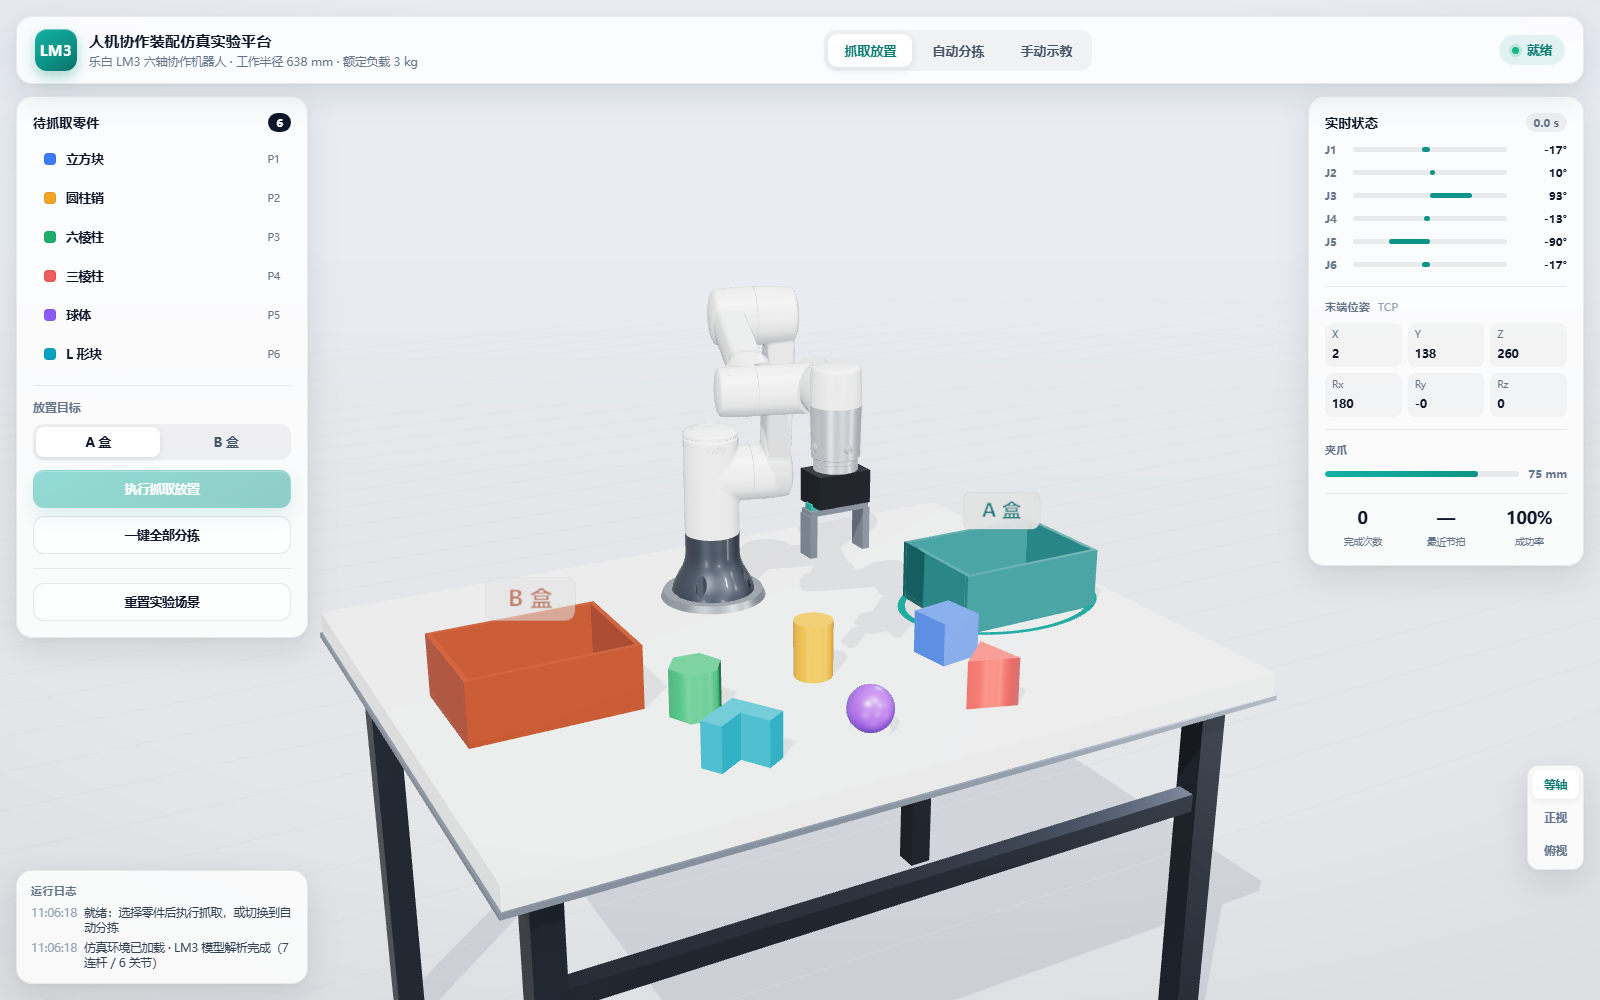
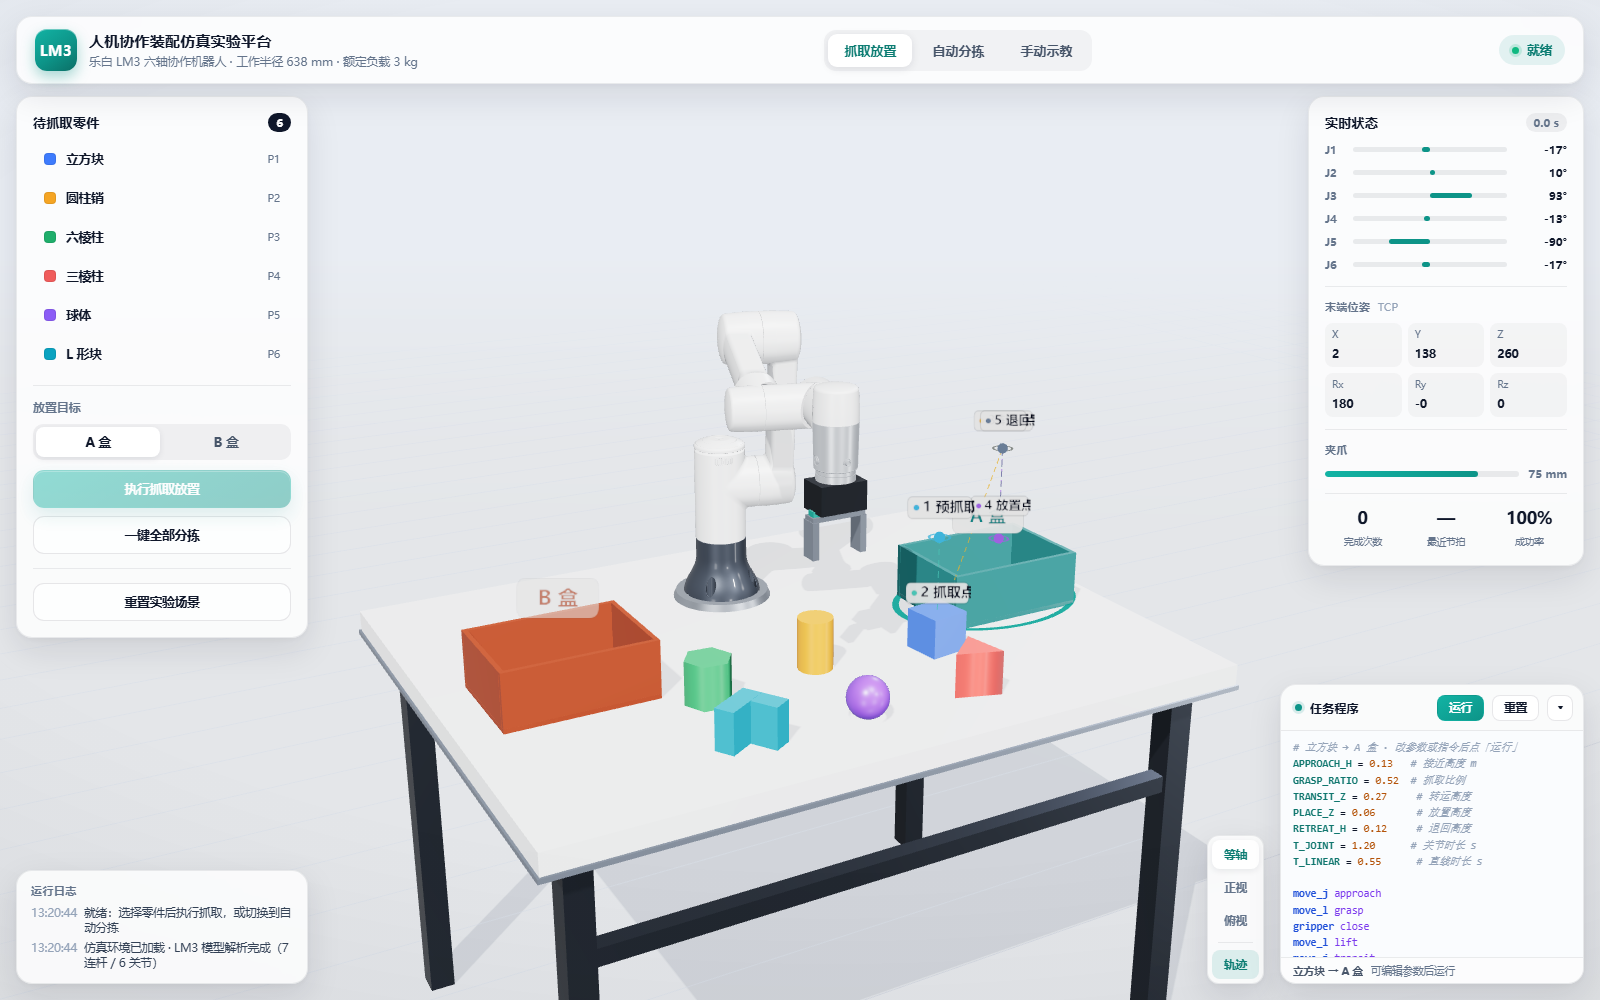
style: 代码面板停靠右下角，压缩程序文本与按钮布局

diff --git a/css/style.css b/css/style.css
@@ -94,7 +94,7 @@ body::after {
   position: fixed;
   top: 96px;
   width: 292px;
-  max-height: calc(100vh - 230px);
+  max-height: calc(100vh - 432px);
   overflow-y: auto;
   padding: 16px;
   background: var(--glass);
@@ -214,7 +214,7 @@ input[type="range"]::-webkit-slider-thumb {
 
 /* 视角切换 */
 .viewbar {
-  position: fixed; right: 16px; bottom: 130px; z-index: 15;
+  position: fixed; right: 336px; bottom: 16px; z-index: 15;
   display: flex; flex-direction: column; gap: 4px; padding: 4px;
   background: var(--glass); backdrop-filter: blur(14px);
   border: 1px solid var(--line); border-radius: 12px; box-shadow: var(--shadow);
@@ -229,8 +229,8 @@ input[type="range"]::-webkit-slider-thumb {
 
 /* ---------- 任务程序面板 ---------- */
 .codepanel {
-  position: fixed; right: 308px; bottom: 16px; z-index: 16;
-  width: 400px; height: 286px;
+  position: fixed; right: 16px; bottom: 16px; z-index: 18;
+  width: 304px; height: 300px;
   display: flex; flex-direction: column;
   background: var(--glass);
   backdrop-filter: blur(18px) saturate(1.2);
@@ -249,7 +249,7 @@ input[type="range"]::-webkit-slider-thumb {
 }
 .cp-dot { width: 7px; height: 7px; border-radius: 50%; background: var(--accent); box-shadow: 0 0 0 3px rgba(13,148,136,.15); }
 .cp-head b { font-size: 12px; font-weight: 650; letter-spacing: .2px; }
-.cp-head em { font-style: normal; font-size: 11px; color: var(--muted); margin-right: auto; }
+.cp-head b { margin-right: auto; }
 .cp-btn {
   height: 26px; padding: 0 11px; border-radius: 8px; cursor: pointer;
   border: 1px solid rgba(15,23,42,.10); background: #fff; color: var(--ink);
@@ -264,9 +264,9 @@ input[type="range"]::-webkit-slider-thumb {
 .cp-edit { position: absolute; inset: 0; overflow: hidden; }
 .cp-hl, .cp-area {
   position: absolute; inset: 0; margin: 0;
-  padding: 10px 14px;
+  padding: 9px 12px;
   font-family: ui-monospace, "SFMono-Regular", Consolas, "Liberation Mono", monospace;
-  font-size: 11.5px; line-height: 1.62; letter-spacing: .1px;
+  font-size: 10.5px; line-height: 1.55; letter-spacing: .1px;
   white-space: pre; tab-size: 2;
 }
 .cp-hl { pointer-events: none; overflow: hidden; color: #0f172a; will-change: transform; }
@@ -285,10 +285,12 @@ input[type="range"]::-webkit-slider-thumb {
 .tok-cmt { color: #94a3b8; font-style: italic; }
 
 .cp-foot {
-  height: 26px; flex: none; display: flex; align-items: center;
-  padding: 0 14px; font-size: 11px; color: var(--muted);
+  height: 26px; flex: none; display: flex; align-items: center; gap: 8px;
+  padding: 0 12px; font-size: 10.5px; color: var(--muted);
   border-top: 1px solid var(--line); background: rgba(255,255,255,.5);
 }
+#codeTarget { flex: none; max-width: 44%; overflow: hidden; text-overflow: ellipsis; white-space: nowrap; color: #475569; font-weight: 600; }
+#codeMsg { flex: 1; overflow: hidden; text-overflow: ellipsis; white-space: nowrap; }
 .cp-foot .error { color: #b91c1c; font-weight: 600; }
 .cp-foot .ok { color: var(--accent-ink); font-weight: 600; }
 .cp-foot .dirty { color: #b45309; font-weight: 600; }
@@ -349,16 +351,17 @@ input[type="range"]::-webkit-slider-thumb {
   .panel-right { width: 250px; }
   .brand { min-width: 0; }
   .titles p { display: none; }
-  .codepanel { width: 340px; right: 282px; height: 262px; }
+  .codepanel { width: 288px; height: 280px; }
 }
 
 @media (max-width: 1400px) {
-  .codepanel { width: 366px; height: 270px; }
+  .codepanel { width: 292px; height: 286px; }
+  .viewbar { right: 322px; }
 }
 
 @media (max-width: 980px) {
-  .codepanel { width: 320px; height: 240px; }
-  .cp-hl, .cp-area { font-size: 11px; }
+  .codepanel { width: 272px; height: 232px; }
+  .viewbar { right: 300px; }
 }
 @media (max-width: 900px) {
   .panel-right { display: none; }

diff --git a/js/planner.js b/js/planner.js
@@ -125,16 +125,14 @@ export function programFor(plan) {
   const name = plan.cfg.name;
   const bin = plan.binId;
   const f = (v) => Number(v).toFixed(2);
-  return `# LM3 抓取放置程序 · ${name} → ${bin} 盒
-# 修改参数或调整指令顺序后点击「运行」
-
-APPROACH_H = ${f(p.approachH)}   # 预抓取高度 m
-GRASP_RATIO = ${f(p.graspRatio)}  # 抓取高度比例
-TRANSIT_Z = ${f(p.transitZ)}     # 转运高度 m
-PLACE_Z = ${f(p.placeZ)}       # 放置高度 m
-RETREAT_H = ${f(p.retreatH)}     # 退回高度 m
-T_JOINT = ${f(p.tJoint)}      # 关节运动时长 s
-T_LINEAR = ${f(p.tLinear)}      # 直线运动时长 s
+  return `# ${name} → ${bin} 盒 · 改参数或指令后点「运行」
+APPROACH_H = ${f(p.approachH)}   # 接近高度 m
+GRASP_RATIO = ${f(p.graspRatio)}  # 抓取比例
+TRANSIT_Z = ${f(p.transitZ)}     # 转运高度
+PLACE_Z = ${f(p.placeZ)}       # 放置高度
+RETREAT_H = ${f(p.retreatH)}     # 退回高度
+T_JOINT = ${f(p.tJoint)}      # 关节时长 s
+T_LINEAR = ${f(p.tLinear)}      # 直线时长 s
 
 move_j approach
 move_l grasp

diff --git a/index.html b/index.html
@@ -120,7 +120,6 @@
   <header class="cp-head">
     <span class="cp-dot"></span>
     <b>任务程序</b>
-    <em id="codeTarget">—</em>
     <button class="cp-btn primary" id="btnRunCode">运行</button>
     <button class="cp-btn" id="btnResetCode">重置</button>
     <button class="cp-btn icon" id="btnFold" title="收起/展开">▾</button>
@@ -131,7 +130,10 @@
       <textarea class="cp-area" id="codeArea" spellcheck="false" wrap="off"></textarea>
     </div>
   </div>
-  <footer class="cp-foot"><span id="codeMsg">参数与指令均可编辑，改完点「运行」</span></footer>
+  <footer class="cp-foot">
+    <span id="codeTarget">—</span>
+    <span id="codeMsg">可编辑参数后运行</span>
+  </footer>
 </section>
 
 <div class="toast" id="toast"></div>

diff --git a/js/app.js b/js/app.js
@@ -550,6 +550,7 @@ class App {
     this.codeArea.value = programFor({ cfg: obj.userData.cfg, binId: this.targetBin, params: this.params });
     this.codeDirty = false;
     this.highlightCode();
+    this.showCodeMsg('可编辑参数后运行', '');
   }
 
   highlightCode() {
@@ -726,6 +727,7 @@ class App {
     $('stateDot').parentElement.classList.toggle('busy', v);
     $('btnPick').disabled = v || !this.selected;
     $('btnSortAll').disabled = v && !this.sorting;
+    if ($('btnRunCode')) $('btnRunCode').disabled = v || !this.selected;
   }
 
   updateObjectList() {
